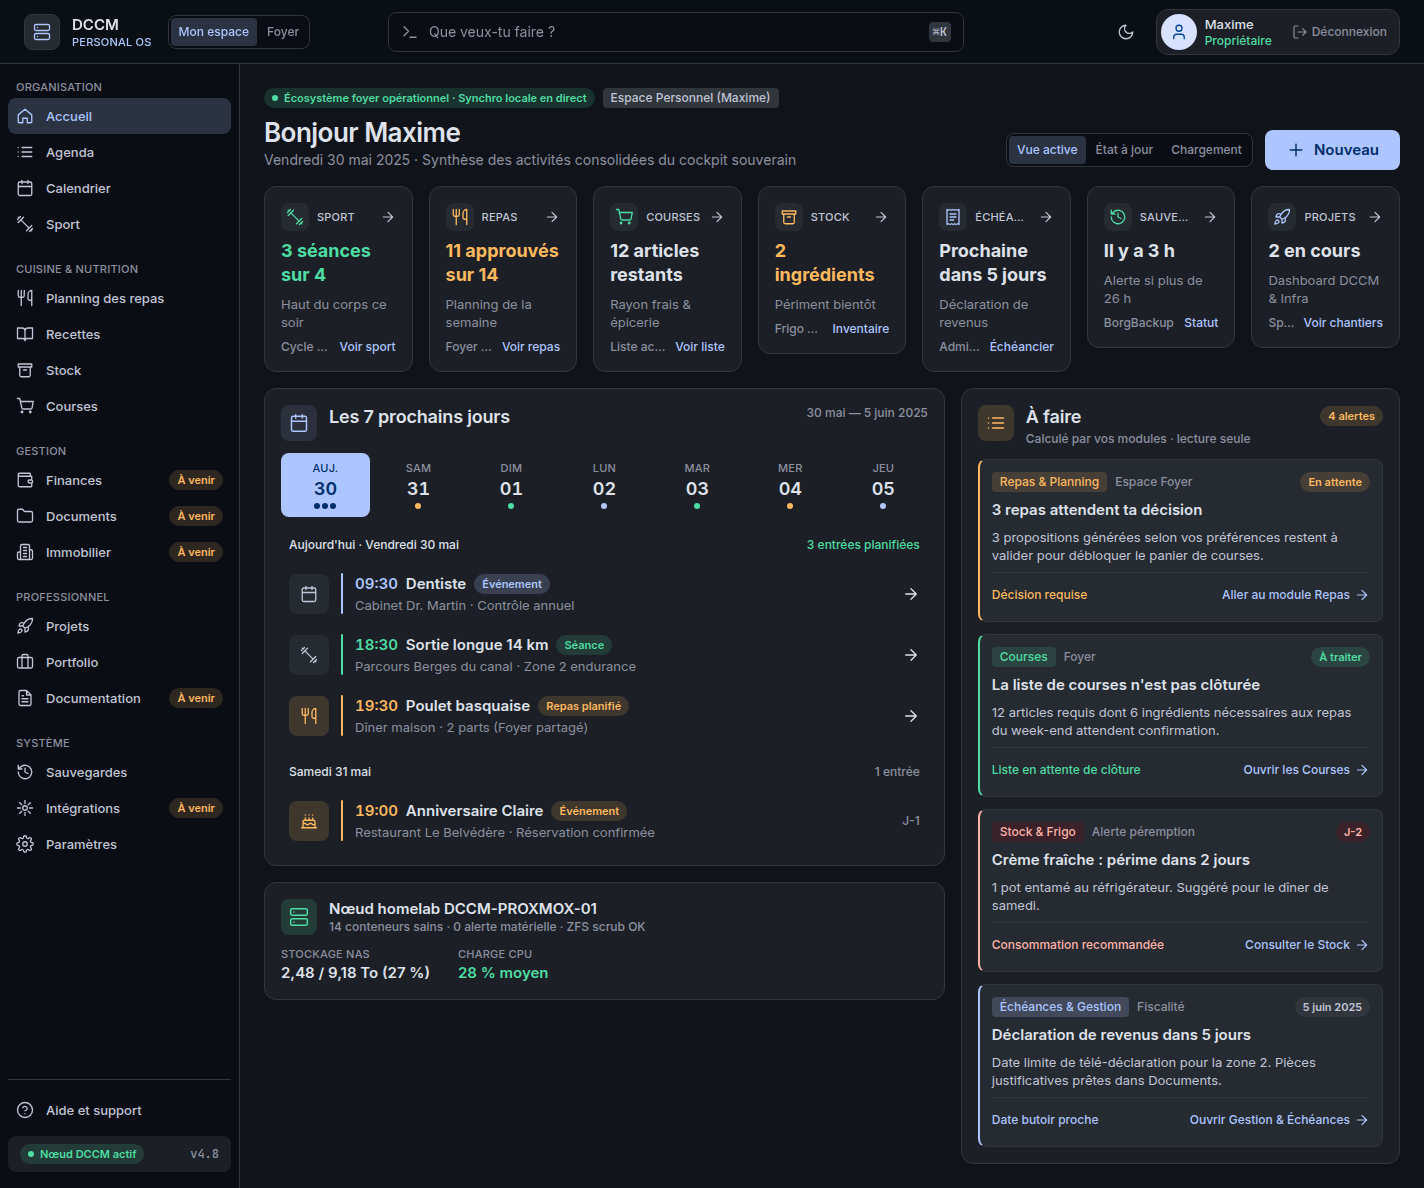
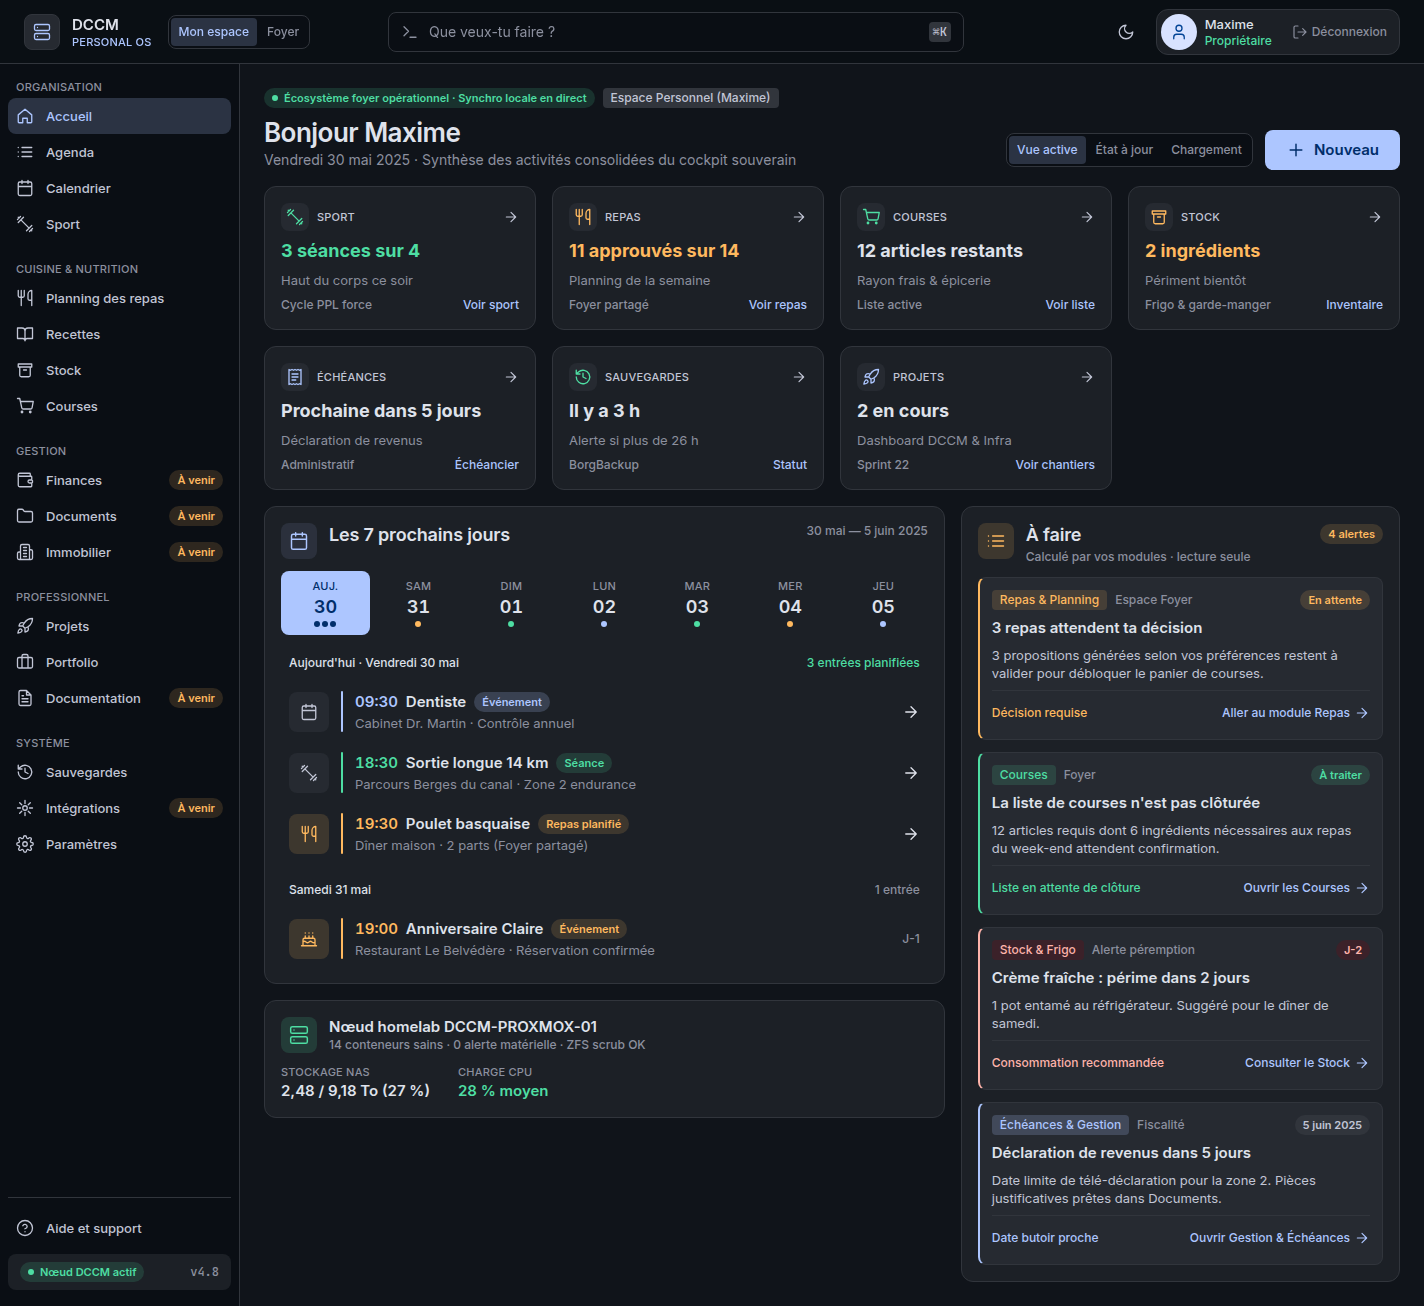
design(essai) : reprises de la revue UX (tuiles, cibles tactiles, puces, barre latérale)

diff --git a/design/components.css b/design/components.css
@@ -46,6 +46,7 @@ ui-icon { display: inline-flex; }
 ui-app-shell, ui-page-header, ui-card, ui-module-tile, ui-kpi, ui-week-strip, ui-agenda-item, ui-task-card,
 ui-metric, ui-session-card, ui-empty-state, ui-recipe-card, ui-ingredient-row, ui-step, ui-search, ui-tabs,
 ui-callout, ui-input { display: block; min-width: 0; }
+ui-module-tile > .module-tile { height: 100%; }
 
 /* ---------- AppShell ---------- */
 ui-app-shell { display: block; }
@@ -162,10 +163,7 @@ ui-app-shell { display: block; }
   .topbar__logout { display: inline-flex; align-items: center; gap: var(--space-xs); margin-left: var(--space-md); color: var(--outline); }
   .sidebar {
     grid-area: side;
-    position: sticky; top: var(--topbar-height);
     display: flex; flex-direction: column;
-    height: calc(100vh - var(--topbar-height));
-    min-height: 100%;
     padding: var(--gutter) var(--space-sm);
     background: var(--surface-container-lowest);
     border-right: 1px solid var(--surface-container-highest);
@@ -183,7 +181,7 @@ ui-app-shell { display: block; }
 }
 .segmented__item {
   display: inline-flex; align-items: center; gap: var(--space-xs);
-  min-height: var(--control-sm);
+  min-height: var(--control-md);
   padding: 0 var(--space-sm);
   border: 0; border-radius: var(--radius-sm);
   background: transparent; color: var(--outline); cursor: pointer;
@@ -194,10 +192,10 @@ ui-app-shell { display: block; }
 .segmented__item:focus-visible { outline: var(--focus-ring) solid var(--primary); }
 .segmented__item[aria-pressed="true"] { background: var(--primary-tint-20); color: var(--primary); }
 .segmented__count { padding: 0 var(--space-xs); border-radius: var(--radius-sm); background: var(--surface-container-highest); color: var(--on-surface-variant); font-variant-numeric: tabular-nums; }
-.segmented--scroll { max-width: 100%; overflow-x: auto; scrollbar-width: none; }
+.segmented--scroll { flex-wrap: wrap; }
 
 /* Underline tabs */
-.tabs { display: flex; gap: var(--space-lg); border-bottom: 1px solid var(--surface-container-highest); overflow-x: auto; scrollbar-width: none; }
+.tabs { display: flex; flex-wrap: wrap; column-gap: var(--space-lg); border-bottom: 1px solid var(--surface-container-highest); }
 .tabs__item {
   display: inline-flex; align-items: center; gap: var(--space-sm);
   min-height: var(--touch-target);
@@ -338,7 +336,7 @@ ui-app-shell { display: block; }
 .module-tile:hover { border-color: var(--outline-variant); }
 .module-tile:focus-visible { outline: var(--focus-ring) solid var(--primary); }
 .module-tile__head { display: flex; align-items: center; gap: var(--space-sm); color: var(--on-surface-variant); }
-.module-tile__head .t-micro { flex: 1; min-width: 0; overflow: hidden; text-overflow: ellipsis; white-space: nowrap; }
+.module-tile__head .t-micro { flex: 1; min-width: 0; }
 .module-tile__icon { display: grid; place-items: center; width: var(--control-sm); height: var(--control-sm); border-radius: var(--radius); background: var(--surface-container-high); flex: none; }
 .module-tile__value { font: var(--font-title-sm-weight) var(--font-title-sm-size)/var(--font-title-sm-line-height) var(--font-title-sm-family), sans-serif; font-variant-numeric: tabular-nums; }
 .module-tile__detail { color: var(--outline); }
@@ -347,8 +345,7 @@ ui-app-shell { display: block; }
 @media (min-width: 1280px) {
   .module-tile { min-height: var(--tile-min-height); padding: var(--gutter); }
   .module-tile__value { font: var(--font-telemetry-metric-weight) var(--font-headline-md-size)/var(--font-headline-md-line-height) var(--font-telemetry-metric-family), sans-serif; }
-  .module-tile__foot { display: flex; justify-content: space-between; gap: var(--space-sm); margin-top: auto; color: var(--outline); }
-  .module-tile__foot > span:first-child { min-width: 0; overflow: hidden; text-overflow: ellipsis; white-space: nowrap; }
+  .module-tile__foot { display: flex; flex-wrap: wrap; justify-content: space-between; gap: var(--space-3xs) var(--space-sm); margin-top: auto; color: var(--outline); }
   .module-tile__foot .c-primary { white-space: nowrap; }
   .module-tile__badge { display: none; }
   .module-tile__chevron { display: inline-flex; }
@@ -430,7 +427,7 @@ ui-app-shell { display: block; }
 .task-card__head ui-badge:last-child { margin-left: auto; }
 .task-card__text { color: var(--on-surface-variant); }
 .task-card__foot { display: flex; flex-wrap: wrap; align-items: center; justify-content: space-between; gap: var(--space-sm); padding-top: var(--space-sm); border-top: 1px solid var(--surface-container-highest); }
-.task-card__foot a { display: inline-flex; align-items: center; gap: var(--space-xs); color: var(--primary); min-height: var(--control-sm); }
+.task-card__foot a { display: inline-flex; align-items: center; gap: var(--space-xs); color: var(--primary); min-height: var(--control-md); }
 
 /* ---------- Metric ---------- */
 .metric { display: grid; gap: var(--space-3xs); min-width: 0; }
@@ -610,3 +607,10 @@ ui-app-shell { display: block; }
 .session-card__main { flex: 1 1 calc(100% - var(--control-lg) - var(--space-md)); }
 .session-card__aside { margin-left: auto; }
 @media (min-width: 1280px) { .session-card__head { flex-wrap: nowrap; } .session-card__main { flex: 1 1 auto; } }
+
+@media (min-width: 1280px) {
+  .segmented__item { min-height: var(--control-sm); }
+  .task-card__foot a { min-height: var(--control-sm); }
+}
+/* T10: a step's duration stays on its title's line. */
+.step__head { flex-wrap: nowrap; align-items: flex-start; }

diff --git a/design/screens/personalos/recettes-ingredients.html b/design/screens/personalos/recettes-ingredients.html
@@ -60,7 +60,7 @@
       <div class="recettes__split">
         <div class="recettes__list" data-name="Recettes et ingrédients / Liste">
           <ui-card>
-            <ui-search placeholder="Rechercher une recette, un ingrédient, un tag…" shortcut="⌘F"></ui-search>
+            <ui-search placeholder="Rechercher une recette…" shortcut="⌘F"></ui-search>
             <ui-segmented label="Filtres" scroll>
               <ui-segment pressed count="42">Toutes</ui-segment>
               <ui-segment icon="sparkles" count="12">IA</ui-segment>
@@ -185,10 +185,10 @@
         <ui-card title="Fusion de doublons" subtitle="Nettoyage du catalogue" icon="merge" tone="tertiary" data-name="Recettes et ingrédients / Fusion">
           <ui-badge slot="aside" tone="warning">1 détection</ui-badge>
           <div class="merge">
-            <div class="detail__head t-micro"><span class="c-muted">Doublon à absorber</span><ui-badge tone="error">Sera supprimé</ui-badge></div>
+            <div class="detail__head"><span class="t-micro c-muted">Doublon à absorber</span><ui-badge tone="error">Sera supprimé</ui-badge></div>
             <div class="merge__line"><span class="t-title-sm">Noix de cajou grillées</span><span class="t-label c-muted">Lié à 2 recettes</span></div>
             <span class="merge__arrow"><ui-icon name="arrow-down" size="sm"></ui-icon></span>
-            <div class="detail__head t-micro"><span class="c-muted">Ingrédient canonique cible</span><ui-badge tone="success">Conservé</ui-badge></div>
+            <div class="detail__head"><span class="t-micro c-muted">Ingrédient canonique cible</span><ui-badge tone="success">Conservé</ui-badge></div>
             <div class="merge__line"><span class="t-title-sm c-primary">Noix de cajou</span><span class="t-label c-secondary">Unité : g · 5 recettes</span></div>
             <p class="t-label c-variant">« Noix de cajou grillées » deviendra un alias de « Noix de cajou ». Les 2 recettes dépendantes seront remappées sans perte de grammage.</p>
           </div>

diff --git a/design/screens/personalos/sport.html b/design/screens/personalos/sport.html
@@ -80,7 +80,7 @@
           <span slot="notes">Notes terrain : séance spontanée effectuée au salon avant le dîner pour soulager les tensions aux ischios.</span>
         </ui-session-card>
 
-        <ui-session-card weekday="Jeu" day="29" title="8 × 800 m allure spécifique (10k/semi) r=1'30" state="done" cols="4">
+        <ui-session-card weekday="Jeu" day="29" title="8&nbsp;×&nbsp;800&nbsp;m allure spécifique (10k/semi) r=1'30" state="done" cols="4">
           <span slot="badges"><ui-tag variant="category" tone="error">Fractionné</ui-tag></span>
           <span slot="badges"><ui-badge tone="success" dot>Réalisée</ui-badge></span>
           <span slot="badges">Piste d'athlétisme Parilly</span>
@@ -101,7 +101,7 @@
           <ui-button slot="aside" variant="secondary" size="sm">Reprogrammer</ui-button>
         </ui-session-card>
 
-        <ui-session-card weekday="Dim" day="01" title="Sortie longue 15,0 km avec 3 × 2000 m tempo allure cible" state="planned" cols="4">
+        <ui-session-card weekday="Dim" day="01" title="Sortie longue 15,0&nbsp;km avec 3&nbsp;×&nbsp;2000&nbsp;m tempo allure cible" state="planned" cols="4">
           <span slot="badges"><ui-tag variant="category" tone="secondary">Sortie longue</ui-tag></span>
           <span slot="badges"><ui-badge tone="info" dot>Prévue aujourd'hui</ui-badge></span>
           <span slot="badges" class="c-tertiary">Objectif : semi de Lyon</span>
@@ -109,7 +109,7 @@
           <ui-metric label="Distance cible" value="15,0 km" tone="primary"></ui-metric>
           <ui-metric label="Durée estimée" value="1 h 25"></ui-metric>
           <ui-metric label="Allure de croisière" value="5:40 /km"></ui-metric>
-          <ui-metric label="Blocs spécifiques" value="3 × 2 km @ 4:45" tone="tertiary"></ui-metric>
+          <ui-metric label="Blocs spécifiques" value="3&nbsp;×&nbsp;2&nbsp;km @&nbsp;4:45" tone="tertiary"></ui-metric>
         </ui-session-card>
       </div>
     </div>

diff --git a/design/screens/personalos/accueil.html b/design/screens/personalos/accueil.html
@@ -31,7 +31,7 @@
         grid-template-areas: "head head" "modules modules" "week todo" "node todo";
         align-items: start;
       }
-      .accueil__modules { grid-template-columns: repeat(7, minmax(0, 1fr)); gap: var(--gutter); }
+      .accueil__modules { grid-template-columns: repeat(4, minmax(0, 1fr)); gap: var(--gutter); }
       .accueil__head { grid-template-columns: minmax(0, 1fr) auto; align-items: end; }
       .accueil__head-actions { grid-row: span 2; display: flex; align-items: center; gap: var(--space-md); }
     }
